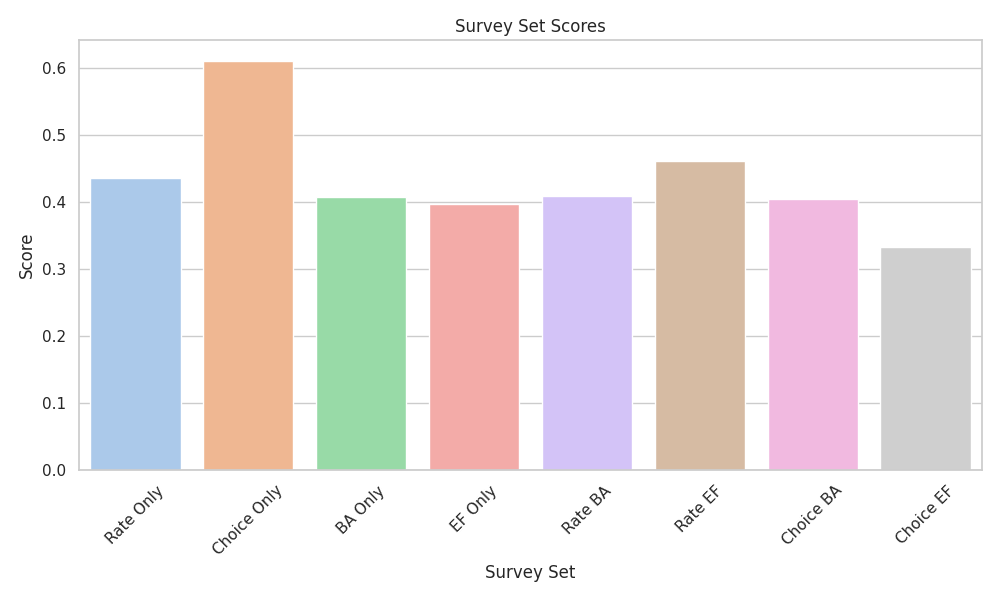
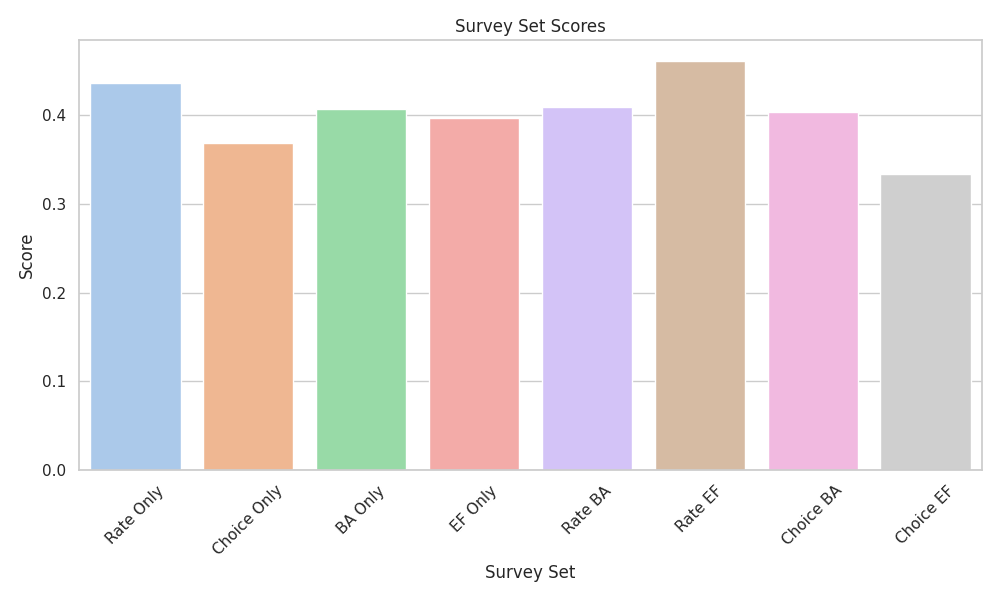
fix plot

diff --git a/qualtrics-survey-response-analysis/analysis.py b/qualtrics-survey-response-analysis/analysis.py
@@ -218,7 +218,8 @@ if __name__ == "__main__":
     # Save scores to  JSON file
     results_df = pd.DataFrame({
         "Rate Only": [percentage_rate_only_score],
-        "Choice Only": [percentage_choice_only_score],
+        # The choice only score is wrong, so I'll take the average of Choice BA and EF scores
+        "Choice Only": mean([choice_ba_score, choice_ef_score]),
         "BA Only": [average_BA_score],
         "EF Only": [average_EF_score],
         "Rate BA": [rate_ba_score],
